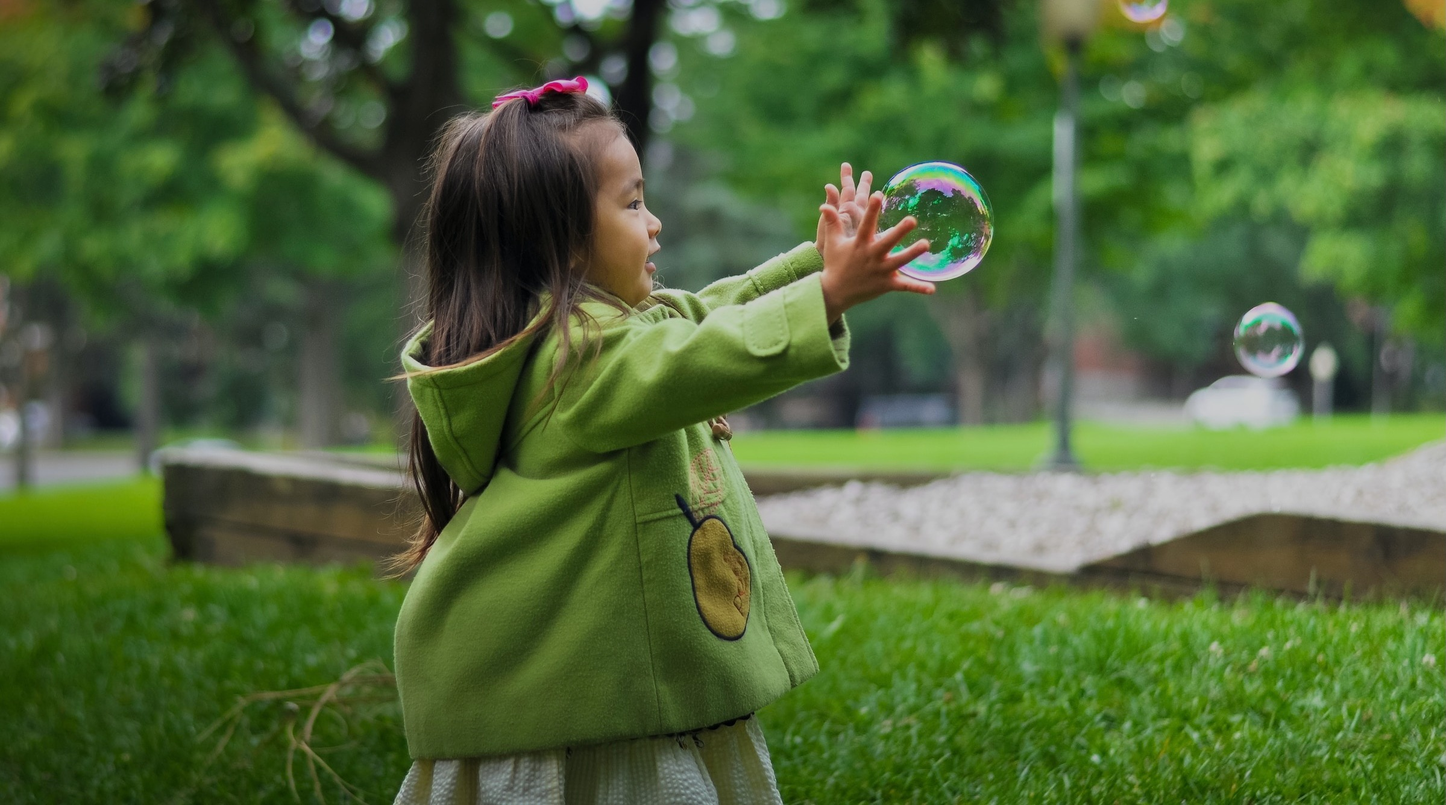
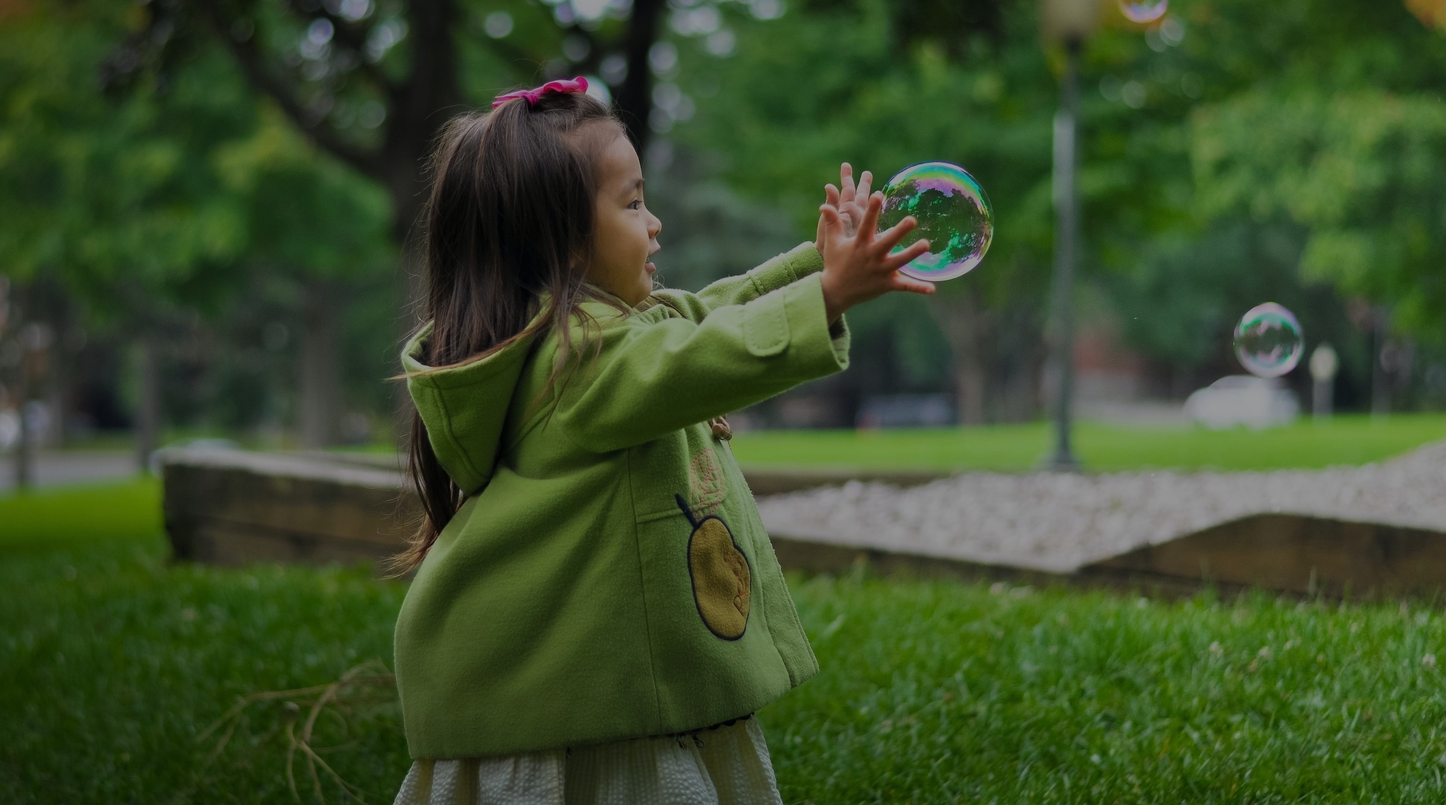
capcha bug fixed + contrast imroved + footer

diff --git a/src/app/[lang]/party/partyImageStoringObj.tsx b/src/app/[lang]/party/partyImageStoringObj.tsx
@@ -15,17 +15,26 @@ import chemistry6 from '@/public/birthdayImages/chemistry/chemistry-6.jpg';
 import blue from '@/public/birthdayImages/baloons/blue.jpg';
 import baloons1 from '@/public/birthdayImages/baloons/baloons-1.jpg';
 import baloons2 from '@/public/birthdayImages/baloons/baloons-2.jpg';
+import baloons3 from '@/public/birthdayImages/baloons/baloons-3.jpg';
+import baloons4 from '@/public/birthdayImages/baloons/baloons-4.webp';
+import baloons5 from '@/public/birthdayImages/baloons/baloons-5.jpg';
+import baloons6 from '@/public/birthdayImages/baloons/baloons-6.jpg';
 
 import soap1 from '@/public/birthdayImages/soap/soap-1.jpg';
+import soap2 from '@/public/birthdayImages/soap/soap-2.jpg';
+import soap3 from '@/public/birthdayImages/soap/soap-3.webp';
+import soap4 from '@/public/birthdayImages/soap/soap-4.jpg';
+import soap5 from '@/public/birthdayImages/soap/soap-5.jpg';
+import soap6 from '@/public/birthdayImages/soap/soap-6.webp';
 
 export const partyGalleryPhotoSet = {
   baloniki: [
     { id: 0, image: baloons1, alt: 'playing kids' },
     { id: 1, image: baloons2, alt: 'playing kids' },
-    { id: 2, image: blue, alt: 'playing kids' },
-    { id: 3, image: blue, alt: 'playing kids' },
-    { id: 4, image: blue, alt: 'playing kids' },
-    { id: 5, image: blue, alt: 'playing kids' },
+    { id: 2, image: baloons3, alt: 'playing kids' },
+    { id: 3, image: baloons4, alt: 'playing kids' },
+    { id: 4, image: baloons5, alt: 'playing kids' },
+    { id: 5, image: baloons6, alt: 'playing kids' },
   ],
   chemia: [
     { id: 0, image: chemistry1, alt: 'playing kids' },
@@ -37,11 +46,11 @@ export const partyGalleryPhotoSet = {
   ],
   mydlo: [
     { id: 0, image: soap1, alt: 'playing kids' },
-    { id: 1, image: blue, alt: 'playing kids' },
-    { id: 2, image: blue, alt: 'playing kids' },
-    { id: 3, image: blue, alt: 'playing kids' },
-    { id: 4, image: blue, alt: 'playing kids' },
-    { id: 5, image: blue, alt: 'playing kids' },
+    { id: 1, image: soap2, alt: 'playing kids' },
+    { id: 2, image: soap3, alt: 'playing kids' },
+    { id: 3, image: soap4, alt: 'playing kids' },
+    { id: 4, image: soap5, alt: 'playing kids' },
+    { id: 5, image: soap6, alt: 'playing kids' },
   ],
   lod: [
     { id: 0, image: dryIce1, alt: 'playing kids' },

diff --git a/src/app/[lang]/footer/footerContactInfo.tsx b/src/app/[lang]/footer/footerContactInfo.tsx
@@ -1,0 +1,41 @@
+import { MapPin, Phone } from 'lucide-react';
+import { MdAlternateEmail } from 'react-icons/md';
+
+const FooterContactInfo = () => {
+  return (
+    <div className="flex flex-col items-center justify-center gap-2 pb-3">
+      <div className="">
+        <div className="flex">
+          <MdAlternateEmail size={20} />
+          <a className="pl-1" href="mailto:info@labokids.pl">
+            info@labokids.pl
+          </a>
+        </div>
+
+        <div className="flex">
+          <Phone size={20} />
+          <a className="pl-1" href="tel:+48 503 038 500">
+            +48 503 038 500
+          </a>
+        </div>
+      </div>
+
+      <div className="">
+        <div className="flex">
+          <MapPin size={20} />
+          <span className="pl-1">
+            Knapowskiego 23, Poznań - Labokids Montessori
+          </span>
+        </div>
+        <div className="flex">
+          <MapPin size={20} />
+          <span className="pl-1">
+            Krośnieńska 9, Poznań - Labokids Bilingual
+          </span>
+        </div>
+      </div>
+    </div>
+  );
+};
+
+export default FooterContactInfo;

diff --git a/src/app/[lang]/common/teachersCarousel/teachersCard.tsx b/src/app/[lang]/common/teachersCarousel/teachersCard.tsx
@@ -9,6 +9,10 @@ import teacher6 from '@/public/montessoriTeachersImages/teacher-6.jpg';
 import teacher11 from '@/public/bilingualTeachersImages/teacher-11.jpg';
 import teacher15 from '@/public/bilingualTeachersImages/teacher-15.jpg';
 import teacher16 from '@/public/bilingualTeachersImages/teacher-16.jpg';
+import teacher12 from '@/public/bilingualTeachersImages/teacher-12.jpg';
+import teacher13 from '@/public/bilingualTeachersImages/teacher-13.jpg';
+import teacher14 from '@/public/bilingualTeachersImages/teacher-14.jpg';
+import teacher17 from '@/public/bilingualTeachersImages/teacher-17.jpg';
 import { IImageObj } from '@/lib/types';
 
 interface ITeachersCard {
@@ -35,12 +39,12 @@ const teachersMapObj: IImageObj = {
   // bilingual
   10: blue,
   11: teacher11,
-  12: blue,
-  13: blue,
-  14: blue,
+  12: teacher12,
+  13: teacher13,
+  14: teacher14,
   15: teacher15,
   16: teacher16,
-  17: blue,
+  17: teacher17,
   18: blue,
 };
 

diff --git a/src/app/[lang]/common/pageHero.tsx b/src/app/[lang]/common/pageHero.tsx
@@ -75,7 +75,7 @@ const PageHero: React.FC<IPageHero> = ({
             className={`flex flex-col ${offeredServicesObj[lastSection].flexPosition} pb-5`}
           >
             <div
-              className={`mt-[10vh] sm:mt-[25vh] lg:mt-[40vh] lg:max-w-[60%] landscape:sm:mt-[10vh] landscape:lg:mt-[25vh] landscape:xl:mt-[45vh]  ${offeredServicesObj[lastSection].textPosition} text-center `}
+              className={`mt-[10vh] sm:mt-[25vh] lg:mt-[40vh] lg:max-w-[60%] landscape:sm:mt-[10vh] landscape:lg:mt-[25vh] landscape:xl:mt-[35vh]  ${offeredServicesObj[lastSection].textPosition} text-center `}
             >
               <p
                 className={`${kidFont.className} pb-5 text-2xl text-blue-100 lg:pb-3`}

diff --git a/src/app/[lang]/footer/footer.tsx b/src/app/[lang]/footer/footer.tsx
@@ -2,6 +2,7 @@ import { Locale } from '@/i18n.config';
 import Container from '../common/container';
 import FooterNavigationList from './footerNavigationList';
 import { getDictionary } from '@/lib/dictionary';
+import FooterContactInfo from './footerContactInfo';
 
 const Footer = async ({ lang }: { lang: Locale }) => {
   const { navigation } = await getDictionary(lang);
@@ -9,6 +10,7 @@ const Footer = async ({ lang }: { lang: Locale }) => {
     <footer className="min-h-[50px] w-full shrink-0 border-t border-gray-200 p-2">
       <Container>
         <FooterNavigationList lang={lang} navigation={navigation} />
+        <FooterContactInfo />
       </Container>
     </footer>
   );

diff --git a/lib/types.ts b/lib/types.ts
@@ -101,14 +101,13 @@ export const pricingIconLibrary = {
 export type T = keyof typeof pricingIconLibrary;
 
 import bilingualMusic from '@/public/bilingualMusic.jpg';
-// import bilingualNative from '@/public/bilingualNative.jpg';
+import bilingualEnglish from '@/public/bilingualEnglish.jpg';
 import bilingualNature from '@/public/bilingualNature.jpg';
-import blue from '@/public/blue.jpg';
 
 export const bilingualProgramImageObj: IImageObj = {
+  english: bilingualEnglish,
   nature: bilingualNature,
   music: bilingualMusic,
-  english: blue,
 };
 
 export type IImageObj = {

diff --git a/src/middleware.ts b/src/middleware.ts
@@ -22,11 +22,6 @@ export function middleware(request: NextRequest) {
     (locale) => !pathname.startsWith(`/${locale}/`) && pathname !== `/${locale}`
   );
 
-  if (pathname === '/') {
-    const locale = getLocale(request);
-    return NextResponse.redirect(new URL(`/${locale}/montessori`, request.url));
-  }
-
   if (pathnameIsMissingLocale) {
     // Redirect if there is no locale
     const locale = getLocale(request);

diff --git a/src/app/[lang]/common/scrollToTopButton.tsx b/src/app/[lang]/common/scrollToTopButton.tsx
@@ -7,7 +7,7 @@ import { motion, AnimatePresence } from 'framer-motion';
 
 const ScrollToTopButton = () => {
   const { scrollToTop, isIntersecting } = useGlobalContext();
-  const [isPhoneOpen, setIsPhoneOpen] = useState(false);
+  const [isPhoneOpen, setIsPhoneOpen] = useState(true);
   const [isGeoOpen, setIsGeoOpen] = useState(false);
 
   return (

diff --git a/src/app/[lang]/common/dynamicGallery/dynamicImageGallery.tsx b/src/app/[lang]/common/dynamicGallery/dynamicImageGallery.tsx
@@ -7,6 +7,7 @@ import { partyGalleryPhotoSet } from '../../party/partyImageStoringObj';
 
 const DynamicImageGallery = () => {
   const { activeGalleryCollection } = useGlobalContext();
+
   return (
     <Container>
       <div className=" mt-10 flex  flex-wrap justify-center gap-5">

diff --git a/src/app/[lang]/workshops/page.tsx b/src/app/[lang]/workshops/page.tsx
@@ -9,6 +9,9 @@ import Topics from '../common/topics/topics';
 import { getDictionary } from '@/lib/dictionary';
 import { workshopGalleryPhotoSet } from './workshopImageStoringObj.tsx';
 
+// write me multiplication function
+
+
 const Workshops = async ({
   params: { lang },
 }: {

diff --git a/src/app/[lang]/bilingual/layout.tsx b/src/app/[lang]/bilingual/layout.tsx
@@ -1,0 +1,7 @@
+export default function DashboardLayout({
+  children,
+}: {
+  children: React.ReactNode;
+}) {
+  return <section>{children}</section>;
+}

diff --git a/tailwind.config.ts b/tailwind.config.ts
@@ -1,4 +1,5 @@
 /** @type {import('tailwindcss').Config} */
+
 module.exports = {
   darkMode: ['class'],
   content: [
